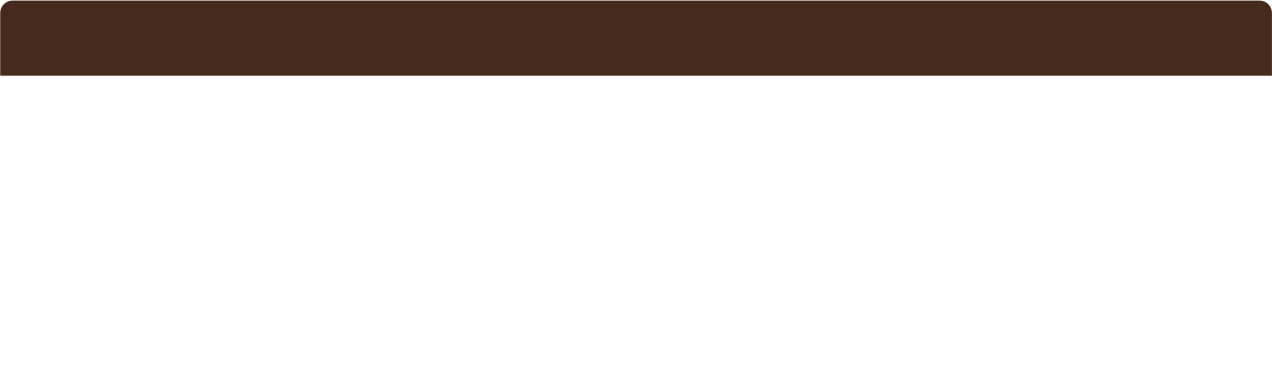
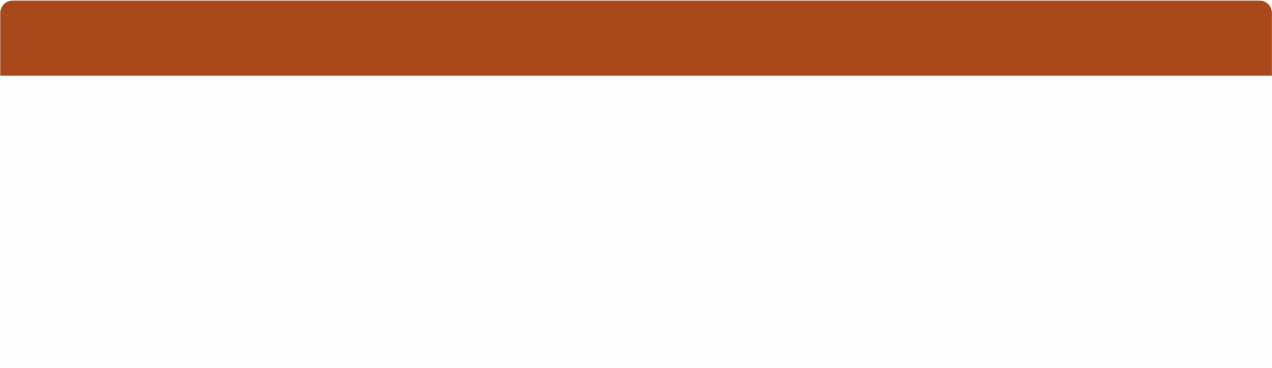
Update dashboard box background and versioning
Updates the box background image to the latest version and adjusts the cache-busting query parameter for background images in the dashboard component.

Replit-Commit-Author: Agent
Replit-Commit-Session-Id: 2d76e6b5-1912-401a-863e-c17355ef12e1
Replit-Commit-Checkpoint-Type: full_checkpoint
Replit-Commit-Event-Id: 848e8660-437c-4cdb-a95c-b10313c201eb
Replit-Commit-Screenshot-Url: https://storage.googleapis.com/screenshot-production-us-central1/a0c66905-cda9-4d99-8753-e071287d758d/2d76e6b5-1912-401a-863e-c17355ef12e1/BEYDCnP
Replit-Helium-Checkpoint-Created: true

Changed region(s): [[0.0, 0.0, 1.0, 0.2092]]

diff --git a/client/src/pages/dashboard.tsx b/client/src/pages/dashboard.tsx
@@ -15,7 +15,7 @@ import buttonBg from "@assets/Button_1769694441816.png";
 import orangeButtonBg from "@assets/Orange_Button_1769695828702.png";
 import clockBg from "@assets/Clock_BG_1769697834310.png";
 import tallPill from "@assets/Tall_1769697999710.png";
-const boxBg = "/BoxBackground.png";
+const boxBg = "/BoxBackground.png?v=6";
 import taskButtonBg from "@assets/Task_1769694788992.png";
 import { useQuery, useMutation } from "@tanstack/react-query";
 import { queryClient, apiRequest } from "@/lib/queryClient";
@@ -8051,7 +8051,7 @@ export default function Dashboard() {
           {/* Due This Week */}
           <section 
             className={`flex-1 rounded-md shadow-md overflow-hidden flex flex-col min-h-[120px] ${draggedBox === 'this-week' ? 'opacity-50' : ''}`} 
-            style={{ backgroundImage: `url(${boxBg}?v=5)`, backgroundSize: 'cover', backgroundPosition: 'center', order: boxOrder.indexOf('this-week') + 1 }} 
+            style={{ backgroundImage: `url(${boxBg})`, backgroundSize: 'cover', backgroundPosition: 'center', order: boxOrder.indexOf('this-week') + 1 }} 
             data-testid="section-due-this-week"
             onDragOver={(e) => handleBoxDragOver(e, 'this-week')}
           >
@@ -8094,7 +8094,7 @@ export default function Dashboard() {
           {/* Due Today */}
           <section 
             className={`flex-1 rounded-md shadow-md overflow-hidden flex flex-col min-h-[120px] ${draggedBox === 'today' ? 'opacity-50' : ''}`} 
-            style={{ backgroundImage: `url(${boxBg}?v=5)`, backgroundSize: 'cover', backgroundPosition: 'center', order: boxOrder.indexOf('today') + 1 }} 
+            style={{ backgroundImage: `url(${boxBg})`, backgroundSize: 'cover', backgroundPosition: 'center', order: boxOrder.indexOf('today') + 1 }} 
             data-testid="section-due-today"
             onDragOver={(e) => handleBoxDragOver(e, 'today')}
           >
@@ -8137,7 +8137,7 @@ export default function Dashboard() {
           {/* Due Tomorrow */}
           <section 
             className={`flex-1 rounded-md shadow-md overflow-hidden flex flex-col min-h-[120px] ${draggedBox === 'tomorrow' ? 'opacity-50' : ''}`} 
-            style={{ backgroundImage: `url(${boxBg}?v=5)`, backgroundSize: 'cover', backgroundPosition: 'center', order: boxOrder.indexOf('tomorrow') + 1 }} 
+            style={{ backgroundImage: `url(${boxBg})`, backgroundSize: 'cover', backgroundPosition: 'center', order: boxOrder.indexOf('tomorrow') + 1 }} 
             data-testid="section-due-tomorrow"
             onDragOver={(e) => handleBoxDragOver(e, 'tomorrow')}
           >
